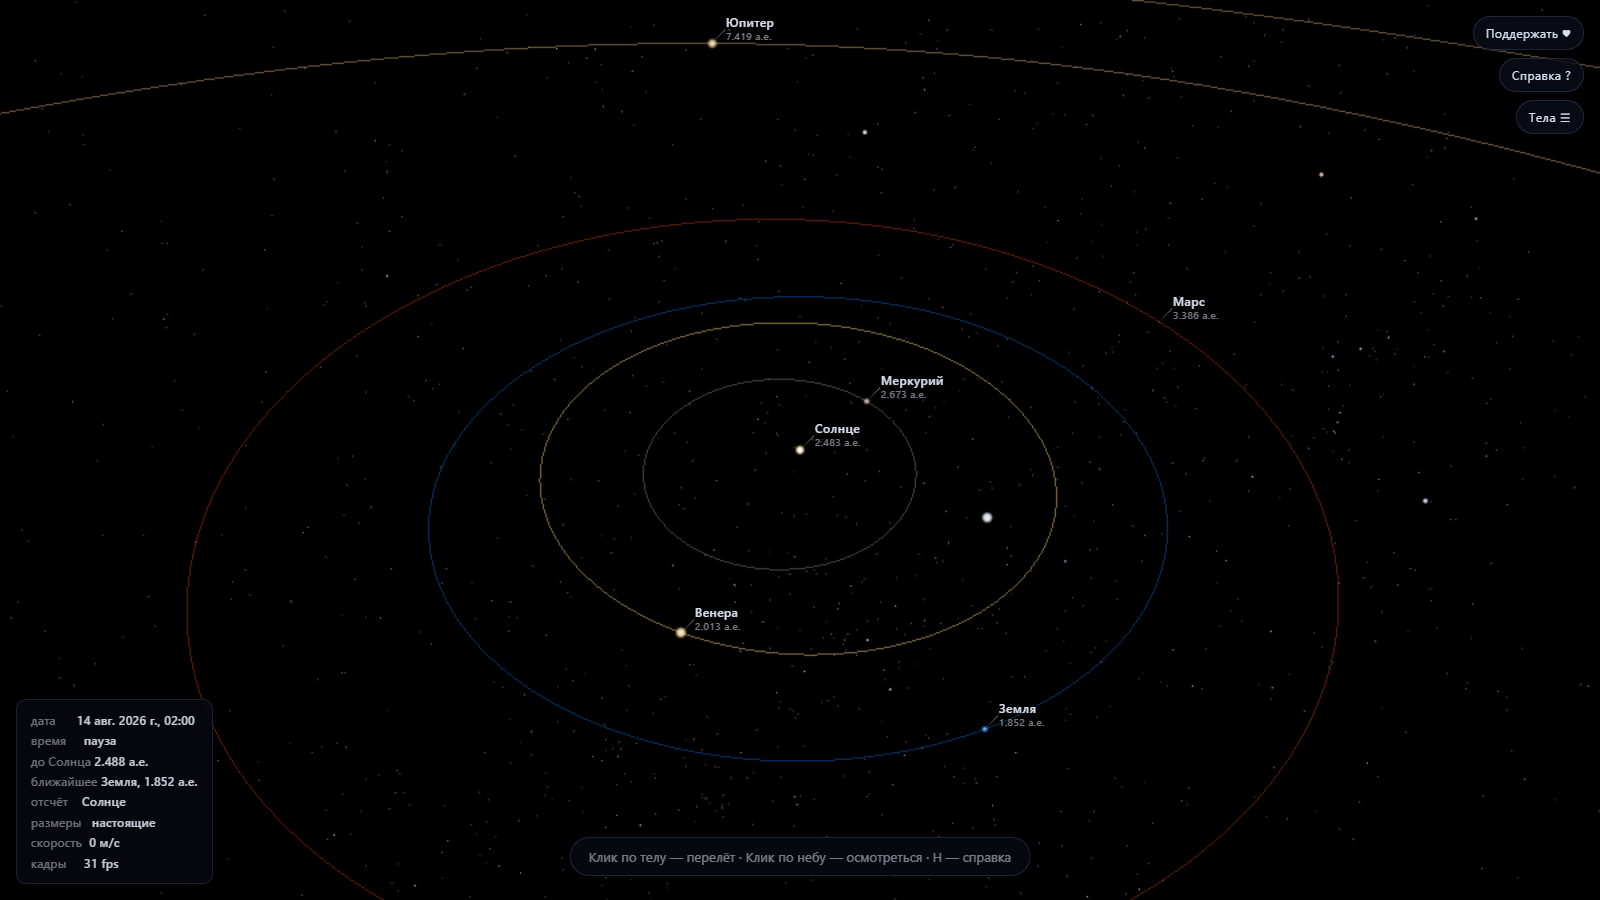
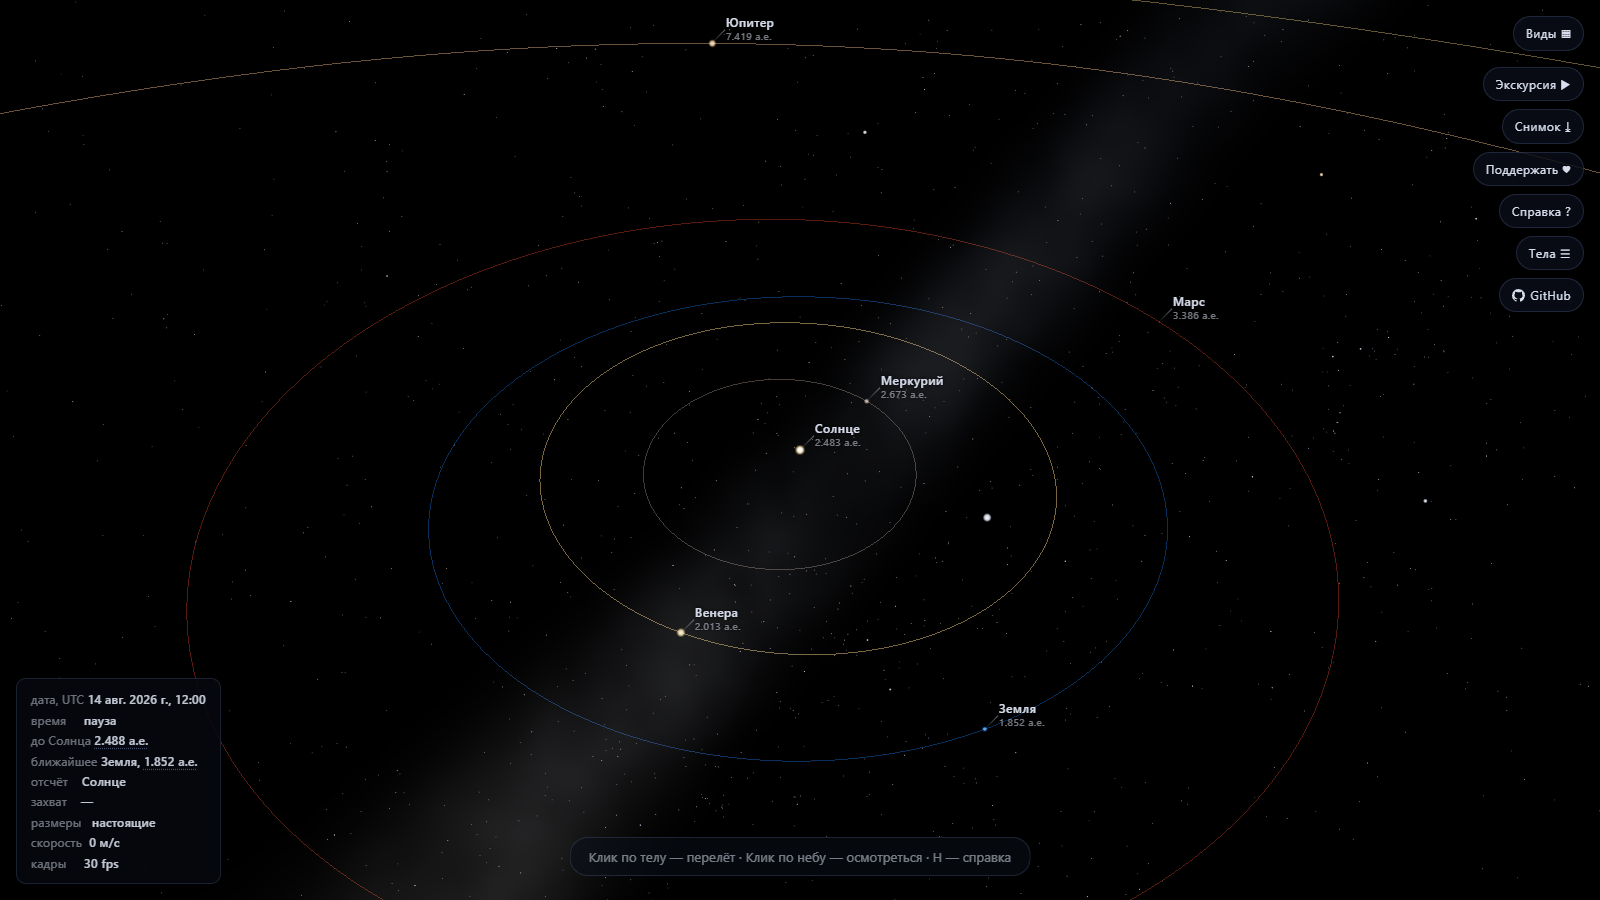
Версия 0.9.0
Пять изменений с прошлого выпуска.

Экскурсию можно смотреть в своём темпе: `←` и `→`, а на сенсорном экране
горизонтальный свайп, переводят на соседнюю остановку, не досматривая
текущую. Прежде она шла сама и только вперёд.

`F` захватывает цель: камера держит тело в центре кадра, пока рулями ведут её
саму. Разгон и наблюдение перестали исключать друг друга.

`N` показывает разметку неба: линии двенадцати созвездий и имена сорока
ярчайших звёзд. Вершины фигур — не собственные точки разметки, а те же звёзды
каталога, поэтому Орион с орбиты Нептуна остаётся Орионом.

Тела отбрасывают тень друг на друга. Двенадцатого августа 2026 года тень Луны
идёт по Земле, третьего марта Луна входит в земную тень и становится
медно-красной, тени галилеевых спутников бегут по облакам Юпитера. Даты не
подобраны руками — они получаются из эфемерид. Все три добавлены готовыми
видами.

Млечный Путь: полоса Галактики с пылевыми прожилками, по галактическим
координатам. Небо из одних звёзд каталога выглядело правдоподобно, но пусто.

Снимки в описании пересняты, к ним добавлены затмение и Млечный Путь.

Claude-Session: https://claude.ai/code/session_01DH86iwBhhbBRu3bUKtLTN1

diff --git a/README.md b/README.md
@@ -165,6 +165,20 @@ npm run dev
 Meeus — кеплеровский эллипс ошибался бы на тысячи километров, и ни фазы, ни
 затмения на нём не сошлись бы.
 
+![Солнечное затмение](docs/shots/eclipse.png)
+
+Двенадцатое августа 2026 года, 17:50 UTC: тень Луны на Земле. Дата не подобрана
+руками — в этот момент ось лунной тени проходит в 5 780 км от центра Земли при
+её радиусе 6 378 и упирается в неё. Тёмное пятно посередине — полная тень,
+размытая кайма вокруг — полутень, где Солнце закрыто только частью.
+
+![Млечный Путь](docs/shots/milkyway.png)
+
+Млечный Путь в стороне созвездия Скорпиона, рядом с центром Галактики. Полоса
+рисуется процедурно по галактическим координатам, пылевые прожилки — шумом;
+линии созвездий и имена звёзд включены клавишей `N`, и вершины фигур стоят на
+настоящих звёздах каталога.
+
 ![Внутренняя система](docs/shots/system.png)
 
 Вид сверху на внутреннюю систему. Орбиты нарисованы по тем же элементам, по
